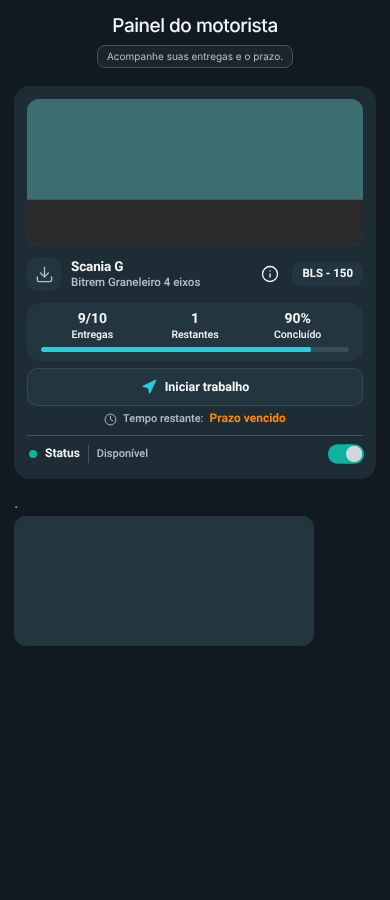
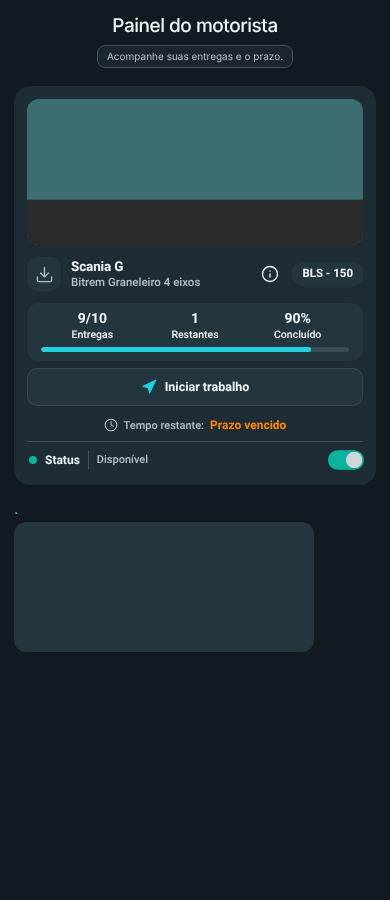
v29 (1.0.537): formulário novo no perfil do motorista, seletor de simuladores sempre visível, respiro do tempo restante
- Perfil do motorista: o formulário antigo (ProfileModal) foi removido; a página usa o mesmo formulário novo da empresa (capa, foto, nome, WhatsApp)
- Formulário da empresa: "Simuladores de atuação" sempre visível; desabilitado, com o motivo, só enquanto o servidor não oferece o comando
- Painel do motorista: mais respiro entre Iniciar trabalho e Tempo restante; ícone, rótulo e valor alinhados e centralizados
- Testes ajustados ao formulário único e versão 1.0.537 (versionCode 537)

Claude-Session: https://claude.ai/code/session_01ASk6AVRSjq21hzr82RT83a

diff --git a/src/components/CompactProfileEditorModal.tsx b/src/components/CompactProfileEditorModal.tsx
@@ -65,7 +65,9 @@ export function CompactProfileEditorModal({ open, mode, onClose }: CompactProfil
   const [pendingCrop, setPendingCrop] = React.useState<{ kind: ImageKind; file: File } | null>(null);
   const [simulatorValues, setSimulatorValues] = React.useState<string[]>([]);
   const [simulatorNote, setSimulatorNote] = React.useState("");
-  const [capabilities, setCapabilities] = React.useState<string[]>([]);
+  // null while the server's answer is pending; the list is empty when this server does not offer the commands.
+  const [capabilitiesState, setCapabilities] = React.useState<string[] | null>(null);
+  const capabilities = capabilitiesState || [];
   const [confirmDelete, setConfirmDelete] = React.useState(false);
   const [deleting, setDeleting] = React.useState(false);
   const [loading, setLoading] = React.useState(false);
@@ -78,7 +80,8 @@ export function CompactProfileEditorModal({ open, mode, onClose }: CompactProfil
   const selection = React.useMemo(() => groupSimulatorSelection(activeCompany, companies as any[], simulators as any[]), [activeCompany, companies, simulators]);
   const isOwner = Boolean(activeCompany && viewerId && (activeCompany.ownerId === viewerId || activeCompany.userId === viewerId));
   const canManage = isOwner || Boolean(activeCompany && seniorCompanyId && seniorCompanyId === activeCompany.id);
-  const showSimulators = isCompany && canManage && capabilities.includes("add-simulators");
+  const showSimulators = isCompany && canManage;
+  const simulatorsReady = capabilitiesState !== null && capabilities.includes("add-simulators");
   const canSwitchOff = capabilities.includes("deactivate-simulators");
   const changes = React.useMemo(() => simulatorChanges(selection, simulatorValues), [selection, simulatorValues]);
 
@@ -104,7 +107,8 @@ export function CompactProfileEditorModal({ open, mode, onClose }: CompactProfil
   React.useEffect(() => {
     if (!open || !isCompany) return;
     let current = true;
-    loadCompanyGroupCapabilities().then(list => { if (current) setCapabilities(list); }, () => undefined);
+    setCapabilities(null);
+    loadCompanyGroupCapabilities().then(list => { if (current) setCapabilities(list); }, () => { if (current) setCapabilities([]); });
     return () => { current = false; };
   }, [open, isCompany, viewerId]);
 
@@ -198,7 +202,7 @@ export function CompactProfileEditorModal({ open, mode, onClose }: CompactProfil
         }
         await saveCover(viewerId, activeCompany.id);
         let simulatorMessage = "";
-        if (showSimulators && (changes.add.length || changes.remove.length)) {
+        if (simulatorsReady && (changes.add.length || changes.remove.length)) {
           try {
             const parts: string[] = [];
             if (changes.add.length) parts.push(addSummary(await addCompanySimulators(activeCompany.id, changes.add)));
@@ -271,7 +275,7 @@ export function CompactProfileEditorModal({ open, mode, onClose }: CompactProfil
   };
 
   const AvatarIcon = isCompany ? Building2 : UserRound;
-  const preview = simulatorValues.length === 0 && showSimulators ? "Escolha ao menos um simulador." : "";
+  const preview = simulatorValues.length === 0 && simulatorsReady ? "Escolha ao menos um simulador." : "";
 
   return (
     <ModalPortal label={title} onClose={onClose} busy={busy}>
@@ -374,8 +378,13 @@ export function CompactProfileEditorModal({ open, mode, onClose }: CompactProfil
             {showSimulators && (
               <div data-testid="profile-editor-simulators">
                 <span className={fieldLabel}>Simuladores de atuação</span>
-                <MultiSelectField title="Simuladores de atuação" description="Marque os simuladores em que a empresa atua."
+                <MultiSelectField title="Simuladores de atuação" description="Marque os simuladores em que a empresa atua." disabled={!simulatorsReady || busy}
                   placeholder="Selecione os simuladores" options={selection.options} values={simulatorValues} onChange={changeSimulators} emptyMessage="Nenhum simulador ativo disponível." />
+                {!simulatorsReady && (
+                  <p role="status" className="mt-1.5 text-[11.5px] font-semibold text-slate-500 dark:text-nvu-muted" data-testid="profile-editor-simulators-unavailable">
+                    {capabilitiesState === null ? "Carregando os simuladores da empresa…" : "A troca de simuladores depende da atualização do servidor. Tente novamente mais tarde."}
+                  </p>
+                )}
                 <p className="mt-1 text-[11.5px] leading-snug text-slate-500 dark:text-nvu-muted">
                   Marcar adiciona o simulador à empresa. Desmarcar desativa, sem apagar motoristas nem histórico; marcar de novo reativa.
                 </p>
@@ -403,7 +412,7 @@ export function CompactProfileEditorModal({ open, mode, onClose }: CompactProfil
 
         <footer className="flex shrink-0 justify-end gap-2 border-t border-slate-200/80 bg-slate-50/80 px-4 py-3 dark:border-white/10 dark:bg-white/[0.03]">
           <button type="button" onClick={onClose} disabled={busy} className="rounded-xl px-3.5 py-2 text-[13px] font-bold text-slate-500 transition hover:bg-slate-200/70 disabled:opacity-50 dark:text-nvu-text-soft dark:hover:bg-white/10">Cancelar</button>
-          <button type="button" onClick={() => void handleSave()} disabled={busy || processingImage || Boolean(pendingCrop) || (showSimulators && simulatorValues.length === 0)}
+          <button type="button" onClick={() => void handleSave()} disabled={busy || processingImage || Boolean(pendingCrop) || (simulatorsReady && simulatorValues.length === 0)}
             className={cn("inline-flex items-center gap-1.5 rounded-xl bg-sky-600 px-4 py-2 text-[13px] font-extrabold text-white transition hover:bg-sky-700 disabled:cursor-not-allowed disabled:opacity-50")}>
             {loading ? <LoaderCircle size={15} className="animate-spin" /> : <Check size={15} />}
             {loading ? "Salvando…" : "Salvar"}

diff --git a/scripts/fixtures/operation-info-fixtures.tsx b/scripts/fixtures/operation-info-fixtures.tsx
@@ -32,7 +32,7 @@ window.__systemBars=[];export const SystemBarsStyle={Dark:'DARK',Light:'LIGHT'},
 export function onAuthStateChanged(auth,next){queueMicrotask(()=>next(auth.currentUser));return noop;}
 export const preloadRoute=load,preloadFleetPanel=load,preloadRoleRoutes=load,warmRegisteredRankingPhotos=load,waitForRankingWarmup=load,beginRankingWarmupSession=noop;
 export function usePersistentRankingImage(src){return {src,onLoad:noop,onError:noop};}
-export function CompactProfileEditorModal(){return null;}export function ProfileModal({isOpen,onClose}){return isOpen?<section role='dialog' aria-label='Editar perfil'><button onClick={onClose}>Fechar perfil</button></section>:null;}export function NotificationCenter(){return null;}
+export function CompactProfileEditorModal({open,onClose}){return open?<section role='dialog' aria-label='Editar perfil'><button onClick={onClose}>Fechar perfil</button></section>:null;}export function NotificationCenter(){return null;}
 window.__noPhoto=[];export function useManagedDriverContacts(uid,companyId,ids){window.__contactLookups=(window.__contactLookups||[]).concat([[uid,companyId,ids]]);return ids.includes('bruno')&&companyId==='dc'?[{id:'bruno',email:'bruno.lima@dctransportes.test',whatsapp:'+55 41 99999-0000'}]:[];}export function useVehiclePhoto(identity){return {src:identity&&!window.__noPhoto.includes(identity.vehicleId)?vehicleData:null,pending:false,onImageLoad:noop,onImageError:noop};}
 export function useTripsRealtime(){return {trips:empty,loading:false,serverConfirmed:true,refreshing:false,error:null};}
 export const getCachedSimpleAutomationCities=()=>[],loadSimpleAutomationCities=async()=>[],prefetchWorkModeAvailability=noop,assertWorkModeEntryAllowed=load,assertServerNewOperationAllowed=load,ensureOperationIntegrity=load;

diff --git a/scripts/fixtures/company-landscape-fixtures.tsx b/scripts/fixtures/company-landscape-fixtures.tsx
@@ -32,7 +32,7 @@ window.__systemBars=[];export const SystemBarsStyle={Dark:'DARK',Light:'LIGHT'},
 export function onAuthStateChanged(auth,next){queueMicrotask(()=>next(auth.currentUser));return noop;}
 export const preloadRoute=load,preloadFleetPanel=load,preloadRoleRoutes=load,warmRegisteredRankingPhotos=load,waitForRankingWarmup=load,beginRankingWarmupSession=noop;
 export function usePersistentRankingImage(src){return {src,onLoad:noop,onError:noop};}
-export function CompactProfileEditorModal(){return null;}export function ProfileModal({isOpen,onClose}){return isOpen?<section role='dialog' aria-label='Editar perfil'><button onClick={onClose}>Fechar perfil</button></section>:null;}export function NotificationCenter(){return null;}
+export function CompactProfileEditorModal({open,onClose}){return open?<section role='dialog' aria-label='Editar perfil'><button onClick={onClose}>Fechar perfil</button></section>:null;}export function NotificationCenter(){return null;}
 export function useVehiclePhoto(identity){return {src:identity?vehicleData:null,pending:false,onImageLoad:noop,onImageError:noop};}
 export function useTripsRealtime(){return {trips:empty,loading:false,serverConfirmed:true,refreshing:false,error:null};}
 export const getCachedSimpleAutomationCities=()=>[],loadSimpleAutomationCities=async()=>[],prefetchWorkModeAvailability=noop,assertWorkModeEntryAllowed=load,assertServerNewOperationAllowed=load,ensureOperationIntegrity=load;

diff --git a/src/components/driver/DriverOperationCard.css b/src/components/driver/DriverOperationCard.css
@@ -46,10 +46,11 @@
 /* Compact lower area (start button, remaining time, availability): less height than the shared card. */
 .nvu-driver-op-card { gap: 7px; padding: 12px; }
 .nvu-driver-op-card .nvu-central-operation-stats { gap: 6px; padding: 8px 14px 9px; }
-.nvu-driver-op-card .nvu-driver-operation-timing { gap: 4px; }
+.nvu-driver-op-card .nvu-driver-operation-timing { gap: 10px; }
 .nvu-driver-op-card .nvu-driver-operation-timing > .nvu-driver-start-work { min-height: 38px; padding-block: 4px; font-size: 12.5px; }
-.nvu-driver-op-card .nvu-driver-remaining-time { font-size: 11px; line-height: 1.2; }
+.nvu-driver-op-card .nvu-driver-remaining-time { align-items: center; justify-content: center; gap: 6px; min-height: 18px; font-size: 11px; line-height: 1; }
+.nvu-driver-op-card .nvu-driver-remaining-time > svg { display: block; width: 14px; height: 14px; margin: 0; }
+.nvu-driver-op-card .nvu-driver-remaining-time > span, .nvu-driver-op-card .nvu-driver-remaining-time > strong { display: inline-flex; align-items: center; height: 18px; line-height: 1; }
 .nvu-driver-op-card .nvu-driver-remaining-time > strong { font-size: 12px; }
-.nvu-driver-op-card .nvu-driver-remaining-time > svg { width: 13px; height: 13px; }
 .nvu-driver-op-card .nvu-driver-status-label { color: var(--central-text); }
 .nvu-driver-op-card .nvu-driver-status-value { color: var(--central-muted); border-left-color: var(--central-line); }

diff --git a/src/components/driver/DriverLandscape.css b/src/components/driver/DriverLandscape.css
@@ -54,7 +54,7 @@ body .nvu-landscape-dashboard .nvu-profile-cover-stack > .nvu-driver-surface { p
 .nvu-landscape-profile .nvu-driver-op-card { --central-photo-ratio: 527 / 200; justify-content: space-between; gap: 8px; padding: 12px 14px; }
 .nvu-landscape-profile .nvu-driver-op-card .nvu-central-vehicle-name strong { font-size: 15px; }
 .nvu-landscape-profile .nvu-driver-op-card .nvu-central-operation-stats { padding-block: 7px 8px; }
-.nvu-landscape-profile .nvu-driver-op-card .nvu-driver-operation-timing { gap: 6px; }
+.nvu-landscape-profile .nvu-driver-op-card .nvu-driver-operation-timing { gap: 8px; }
 .nvu-landscape-profile .nvu-driver-op-card .nvu-driver-operation-timing > .nvu-driver-start-work { min-height: 38px; font-size: 12.5px; }
 .nvu-landscape-profile .nvu-driver-op-card > .nvu-driver-status-row { min-height: 36px; padding-top: 8px; }
 .nvu-landscape-profile .nvu-driver-op-card .nvu-driver-status-label { font-size: 13px; }

diff --git a/src/pages/driver/Profile.tsx b/src/pages/driver/Profile.tsx
@@ -80,7 +80,7 @@ import {
   CalendarDays,
   Banknote,
 } from "lucide-react";
-import { ProfileModal } from "../../components/ProfileModal";
+import { CompactProfileEditorModal } from "../../components/CompactProfileEditorModal";
 import { SimulatorSelectionModal } from "../../components/SimulatorSelectionModal";
 import { DriverPerformanceCard } from "../../components/DriverPerformanceCard";
 import { useDriverTrips } from "../../hooks/useDriverTrips";
@@ -1560,8 +1560,9 @@ function DriverProfileContent({ currentUser }: { currentUser: User }) {
 
 
         </div>
-        <ProfileModal
-          isOpen={isEditProfileOpen}
+        <CompactProfileEditorModal
+          open={isEditProfileOpen}
+          mode="driver"
           onClose={() => setIsEditProfileOpen(false)}
         />
       </div>

diff --git a/capacitor.config.ts b/capacitor.config.ts
@@ -15,7 +15,7 @@ const selfHostedOtaEnabled =
   && Boolean(selfHostedOtaManifestUrl)
   && Boolean(selfHostedOtaPublicKey);
 const nativeChannel = String(
-  process.env.NVU_NATIVE_CHANNEL || "production-536",
+  process.env.NVU_NATIVE_CHANNEL || "production-537",
 ).trim();
 
 /**
